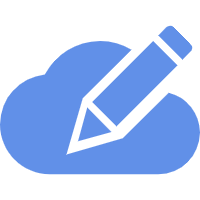
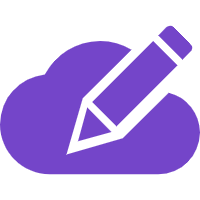
fix: modify

diff --git a/src/pages/register/index.tsx b/src/pages/register/index.tsx
@@ -6,7 +6,7 @@ import { useRequest } from "taro-hooks";
 import NoData from "@/components/noData";
 import NoLogin from "@/components/noLogin";
 import { AtButton } from "taro-ui";
-import { formattYMDHMS } from "@/utils/formDate";
+import { formattYMDHM } from "@/utils/formDate";
 import "./index.less";
 
 const Register = () => {
@@ -61,7 +61,7 @@ const Register = () => {
               <View className='title'>{item.semesterTitle}</View>
             </View>
             <View className='time'>
-              开课时间:{formattYMDHMS(item.classStartTime)}
+              开课时间:{formattYMDHM(item.classStartTime)}
             </View>
           </View>
           <View className='content'>{item.content}</View>

diff --git a/src/app.config.ts b/src/app.config.ts
@@ -12,12 +12,12 @@ export default {
     backgroundTextStyle: "light",
     navigationBarTitleText: "牙美啦",
     navigationBarTextStyle: "white",
-    navigationBarBackgroundColor: "#6190E8"
+    navigationBarBackgroundColor: "#7445c9"
   },
   tabBar: {
     color: "#333333",
     backgroundColor: "#fafafa",
-    selectedColor: "#6190E8",
+    selectedColor: "#7445c9",
     borderStyle: "white",
     list: [
       {

diff --git a/src/utils/formDate.ts b/src/utils/formDate.ts
@@ -4,3 +4,8 @@ export const formattYMDHMS = date => {
   let formatt = dayjs(date).format("YYYY-MM-DD HH:mm:ss");
   return formatt;
 };
+
+export const formattYMDHM = date => {
+  let formatt = dayjs(date).format("YYYY-MM-DD HH:mm");
+  return formatt;
+};

diff --git a/src/app.ts b/src/app.ts
@@ -1,5 +1,5 @@
 import { Component } from 'react';
-import 'taro-ui/dist/style/index.scss'
+import './taroStyle/custom-variables.scss'
 import './app.less';
 
 class App extends Component {

diff --git a/src/pages/mine/index.less b/src/pages/mine/index.less
@@ -2,7 +2,7 @@
   position: relative;
   .top-bg{
     height: 88px;
-    background-color: #6190E8;
+    background-color: #7445c9;
     margin-bottom: 144px;
   }
   .top-user{

diff --git a/src/pages/login/index.less b/src/pages/login/index.less
@@ -38,6 +38,6 @@
     margin-top: 48px;
     font-size: 24px;
     text-align: center;
-    color: #6190E8;
+    color: #7445c9;
   }
 }

diff --git a/src/taroStyle/custom-variables.scss b/src/taroStyle/custom-variables.scss
@@ -1,0 +1,3 @@
+$color-brand: #7445c9;
+/* 引入 Taro UI 默认样式 */
+@import "~taro-ui/dist/style/index.scss";
